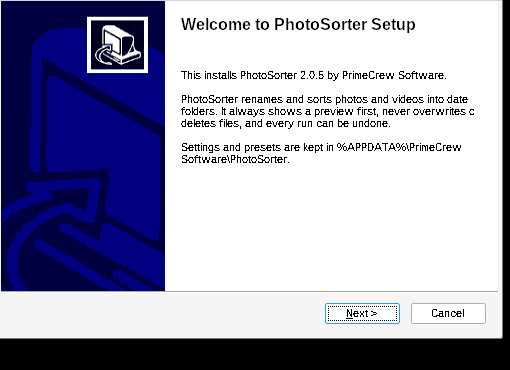
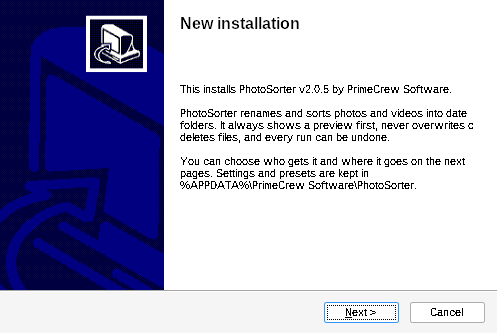
2.0.5 setup: shared PrimeCrew upgrade/new-install look
- Upgrade: first page and new Ready to install page start with
  'Updating existing installation: PhotoSorter v<old> → v<new>', then
  'Installed in: <path>' as read-only text (no Browse, folder never moves;
  existing per-user/all-users scope kept)
- Fresh install: 'New installation' title, folder page labelled 'Install to:'
- Finish page: 'Updated to v<new> in <path>' / 'Installed v<new> to <path>'
- Wine screenshots (fresh, upgrade, all-users upgrade), CHANGELOG, TEST-SUMMARY

diff --git a/docs/v2/TEST-SUMMARY.md b/docs/v2/TEST-SUMMARY.md
@@ -213,13 +213,34 @@ window decorations sizes are Wine/xfwm4's, not Windows 11's.
     (5 restored, 4 empty folders removed); file hashes identical to before.
   - Setup while PhotoSorter is running: refused (silent exit code 1618),
     installed exe unchanged.
-  - Reinstall over the top (welcome page says "reinstall in place", skips
-    the who/where pages); two silent reinstalls with the desktop shortcut:
+  - Reinstall over the top (skips the who/where pages); two silent
+    reinstalls with the desktop shortcut:
     exactly one brand `.lnk` and one desktop `.lnk`.
   - Uninstall: install folder, `PhotoSorter.lnk`, desktop shortcut and
     registry key removed; `Encode FFS.lnk` and the brand folder kept;
     APPDATA settings and photos untouched. With no other shortcut in the
     brand folder, the folder is removed.
+- Installer, shared PrimeCrew setup look (Wine, per-user and all-users):
+  - Fresh install: welcome title "New installation"; folder page labelled
+    "Install to:" (editable, Browse); Ready page with a "New installation"
+    band and "Install to: <path>"; finish page "Installed v2.0.5 to <path>".
+  - Second run over it, with DisplayVersion set to 2.0.4 in the Wine
+    registry to fake an older install: first page title "Updating existing
+    installation: PhotoSorter v2.0.4 → v2.0.5", directly followed by
+    "Installed in: <path>" (text only); who/where pages skipped; Ready page
+    repeats the banner and read-only path; finish page "Updated to v2.0.5
+    in <path>"; DisplayVersion back to 2.0.5, still one Start Menu `.lnk`.
+  - All-users: silent `/S /ALLUSERS` install to `C:\Program Files\PhotoSorter`
+    (HKLM key), then a normal run of setup: detected from HKLM, Ready page
+    shows "Installed in: C:\Program Files\PhotoSorter" and "Everyone on this
+    PC" (canceled there, then uninstalled with `/S /ALLUSERS`).
+  - Under Wine the → glyph comes from a fallback font and looks small; on
+    Windows the dialog font is expected to draw it normally (not checked).
+  - Screenshots: `screenshots/v2.0.5-setup-welcome.png`,
+    `v2.0.5-setup-new-install-to.png`, `v2.0.5-setup-new-ready.png`,
+    `v2.0.5-setup-new-finish.png`, `v2.0.5-setup-upgrade.png`,
+    `v2.0.5-setup-upgrade-ready.png`, `v2.0.5-setup-upgrade-finish.png`,
+    `v2.0.5-setup-upgrade-ready-allusers.png`.
 - Screenshots: `screenshots/v2.0.5-main-window.png` (1280x900 default),
   `screenshots/v2.0.5-about.png`, `screenshots/v2.0.5-clear-all-confirm.png`,
   `screenshots/v2.0.5-setup-welcome.png`,

diff --git a/CHANGELOG.md b/CHANGELOG.md
@@ -27,6 +27,15 @@ Wine only, not on a real Windows PC.
   duplicate shortcuts. Uninstall removes only the installed files and
   shortcuts (the brand folder only when empty); photos, undo logs,
   settings and presets are never deleted.
+- Setup shows clearly whether it updates or installs, in the same look as
+  the other PrimeCrew Software installers. Upgrade: the first page and the
+  Ready to install page start with "Updating existing installation:
+  PhotoSorter v<old> → v<new>", followed by "Installed in: <path>" as plain
+  text (no Browse; an update never moves the folder, and a per-user or
+  all-users install stays that way). Fresh install: "New installation",
+  folder page labelled "Install to:" with Browse. New Ready to install page
+  (who, folder, shortcuts). Finish page: "Updated to v<new> in <path>" or
+  "Installed v<new> to <path>".
 - Installed mode: setup writes `PhotoSorter.installed` next to the exe and
   the app then keeps `PhotoSorter.ini` in
   `%APPDATA%\PrimeCrew Software\PhotoSorter`. A writable INI or a
